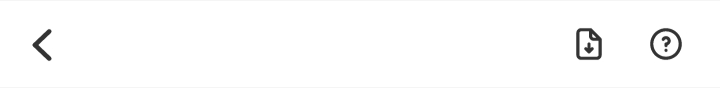
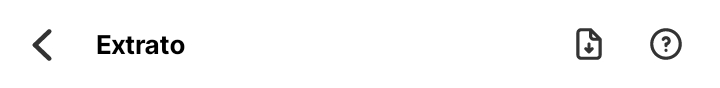
Primeira versão do extrato

Changed region(s): [[0.1222, 0.3864, 0.275, 0.6136]]

diff --git a/extrato.html b/extrato.html
@@ -1,0 +1,264 @@
+<!DOCTYPE html>
+<html lang="pt-br">
+<head>
+    <meta charset="UTF-8">
+    <meta http-equiv="X-UA-Compatible" content="IE=edge">
+    <meta name="viewport" content="width=device-width, initial-scale=1.0">
+    <title>Document</title>
+    <style>
+        @import url('https://fonts.googleapis.com/css2?family=Nunito+Sans:wght@200;300;400;600;700&display=swap');
+
+        *{
+            margin: 0%;
+            padding: 0%;
+            font-family: 'Nunito Sans', sans-serif;
+        }
+        .home_topo_111px{
+            background-image: url(img/extrato_topo_88px.png);
+            background-size: cover;
+            background-repeat: no-repeat;
+            width:  var(--largura);
+            height: 12.22vw;
+            box-shadow: 1px 0px 16px 4px rgba(0, 0, 0, 0.274);
+        }
+
+        .bloco{
+            margin-top: 15px;
+            font-size: 15px;
+        }
+
+        .bloco h1{
+            text-align: center;
+            font-size: 1em;
+            font-weight: bold;
+
+        }
+
+        .bloco_vip{
+            margin-top: 15px;
+            font-size: 15px;
+        }
+
+        .bloco_vip h1{
+            text-align: center;
+            font-size: 1em;
+            font-weight: bold;
+
+        }
+        .currency{
+            color: forestgreen;
+        }
+
+        .infos{
+            display: flex;
+            margin-left: 10px;
+            margin-right: 10px;
+        }
+
+        .infos section{
+            display: flex;
+            width: 100%;
+            flex-direction: column;
+            justify-content: center;            
+        }
+
+        .infos span{
+            display: flex;
+            justify-content: space-between;
+            margin: 10px 20px 10px 10px;
+            
+        }
+        .infos .imgem{
+            background-image: url(img/extrato_stonks_55x193px.png);
+            background-size: cover;
+            width: 7.63vw;
+            height: 26.80vw;
+        }
+
+        .bloco_vip .imgem{
+            background-image: url(img/extrato_pix_55x193px.png);
+            background-size: cover;
+            width: 7.63vw;
+            height: 26.80vw;
+        }
+        .saldo_do_dia{
+            display: flex;
+            justify-content: space-between;
+            margin: 10px 30px 10px 10px;
+        }
+
+
+    </style>
+</head>
+<body>
+    <header>
+        <div class="home_topo_111px"></div>
+    </header>
+    <main>
+
+
+        <div class="bloco_vip">
+            <h1>Dia de hoje</h1>
+            <section class="infos">
+                <div class="imgem"></div>
+                <section>
+                    <span>
+                        <p><strong>PIX enviado</strong></p>
+                        <p>hora</p>
+                    </span>
+                    <section style="margin-left: 10px;">
+                        <p>NOME DA PESSOA TROUXA</p>
+                        <p>instituição: BANCO DA PESSOA</p>
+                    </section>
+                    <span>
+                        <p>Total</p>
+                        <p class="currency">+R$ 0,01</p>
+                    </span>
+                </section>
+            </section>
+        </div>
+
+
+
+
+        <div class="bloco">
+            <h1>08 jun 2022</h1>
+            <section class="infos">
+                <div class="imgem"></div>
+                <section>
+                    <span>
+                        <p><strong>Rendimentos</strong></p>
+                        <p>10:47</p>
+                    </span>
+                    <span>
+                        <p>Total</p>
+                        <p class="currency">+R$ 0,01</p>
+                    </span>
+                </section>
+            </section>
+        </div>
+
+        <div class="bloco">
+            <h1>08 mai 2022</h1>
+            <span>
+                <span class="saldo_do_dia">
+                    <p><strong>Saldo do dia</strong></p>
+                    <p>R$ 745,09</p>
+                </span>
+                <section class="infos">
+                    <div class="imgem"></div>
+                    <section>
+                        <span>
+                            <p><strong>Rendimentos</strong></p>
+                            <p>07:02</p>
+                        </span>
+                        <span>
+                            <p>Total</p>
+                            <p class="currency">+R$ 1,03</p>
+                        </span>
+                    </section>
+                </section>
+            </span>
+        </div>
+        
+
+        <div class="bloco">
+            <h1>08 abr 2022</h1>
+            <span>
+                <span class="saldo_do_dia">
+                    <p><strong>Saldo do dia</strong></p>
+                    <p>R$ 520,67</p>
+                </span>
+                <section class="infos">
+                    <div class="imgem"></div>
+                    <section>
+                        <span>
+                            <p><strong>Rendimentos</strong></p>
+                            <p>13:04</p>
+                        </span>
+                        <span>
+                            <p>Total</p>
+                            <p class="currency">+R$ 0,83</p>
+                        </span>
+                    </section>
+                </section>
+            </span>
+        </div>
+        
+
+        <div class="bloco">
+            <h1>08 mar 2022</h1>
+            <span>
+                <span class="saldo_do_dia">
+                    <p><strong>Saldo do dia</strong></p>
+                    <p>R$ 40,21</p>
+                </span>
+                <section class="infos">
+                    <div class="imgem"></div>
+                    <section>
+                        <span>
+                            <p><strong>Rendimentos</strong></p>
+                            <p>00:37</p>
+                        </span>
+                        <span>
+                            <p>Total</p>
+                            <p class="currency">+R$ 0,61</p>
+                        </span>
+                    </section>
+                </section>
+            </span>
+        </div>
+        
+
+        <div class="bloco">
+            <h1>09 fev 2022</h1>
+            <span>
+                <span class="saldo_do_dia">
+                    <p><strong>Saldo do dia</strong></p>
+                    <p>R$ 30,41</p>
+                </span>
+                <section class="infos">
+                    <div class="imgem"></div>
+                    <section>
+                        <span>
+                            <p><strong>Rendimentos</strong></p>
+                            <p>15:27</p>
+                        </span>
+                        <span>
+                            <p>Total</p>
+                            <p class="currency">+R$ 0,23</p>
+                        </span>
+                    </section>
+                </section>
+            </span>
+        </div>
+
+        
+
+        <div class="bloco">
+            <h1>08 jan 2022</h1>
+            <span>
+                <span class="saldo_do_dia">
+                    <p><strong>Saldo do dia</strong></p>
+                    <p>R$ 230,51</p>
+                </span>
+                <section class="infos">
+                    <div class="imgem"></div>
+                    <section>
+                        <span>
+                            <p><strong>Rendimentos</strong></p>
+                            <p>10:47</p>
+                        </span>
+                        <span>
+                            <p>Total</p>
+                            <p class="currency">+R$ 0,15</p>
+                        </span>
+                    </section>
+                </section>
+            </span>
+        </div>
+        
+    </main>
+
+</body>
+</html>

diff --git a/index.html b/index.html
@@ -159,7 +159,7 @@
                     <div id="olho"></div>
                 </span>
             </span>
-            <button id="extrato_260x60px"> Extrato</button>
+            <a href="extrato.html"><button id="extrato_260x60px"> Extrato</button></a>
         </section>
         <div id="scrollHorizontal">
             <div id="bnts">
